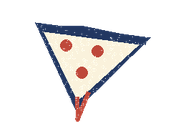
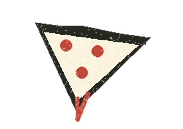
Made a Theme for my Exercise 2
Gave my Exercise 2 an Improvement with purpose and a fun way to see it

Changed region(s): [[0.1913, 0.155, 0.8197, 0.8372], [0.4372, 0.7442, 0.4645, 0.8062]]

diff --git a/Exercise 2/02-joke_teller.py b/Exercise 2/02-joke_teller.py
@@ -10,7 +10,7 @@ except ImportError:
     winsound = None
 
 HERE = Path(__file__).resolve().parent
-INK, RED, PAPER, DESK = "#223761", "#a83d32", "#faf2dc", "#dedbcf"
+INK, RED, PAPER, DESK = "#262820", "#973827", "#fbf2dd", "#e6e0d1"
 ZINE = Path.home() / ".second-impression" / "zine.json"
 
 
@@ -26,7 +26,7 @@ def read_jokes(path):
 class Press:
     def __init__(self, root):
         self.root = root
-        root.title("Second Impression  ·  The joke press")
+        root.title("Ink Dog Press  ·  Second Impression")
         root.resizable(False, False)
         self.c = tk.Canvas(root, width=900, height=550, bg=DESK, highlightthickness=0)
         self.c.pack()
@@ -93,10 +93,12 @@ class Press:
         self.revealed=False
         self.view(None)
         self.sound("feed")
-        self.c.addtag_enclosed("sheet", 289, 65, 881, 535)
-        self.c.move("sheet", 0, -12)
+        self.c.addtag_enclosed("sheet", 324, 65, 879, 513)
+        self.c.move("sheet", 12, 0)
+        self.c.move("dog", 8, 0)
         def feed(steps):
-            self.c.move("sheet", 0, 3)
+            self.c.move("sheet", -3, 0)
+            self.c.move("dog", -2, 0)
             self.timer = self.root.after(16, feed, steps-1) if steps>1 else None
         feed(4)
 
@@ -107,11 +109,11 @@ class Press:
         self.sound("impress")
         self.draw()
         # The moving mask exposes the second ink layer from top to bottom.
-        mask=self.c.create_rectangle(340,309,842,444,fill=PAPER,outline="")
+        mask=self.c.create_rectangle(329,309,864,444,fill=PAPER,outline="")
         roller=self.c.create_line(332,309,834,309,fill=RED,width=3)
         def roll(y):
             self.c.coords(roller,332,y,834,y)
-            self.c.coords(mask,340,y,842,444)
+            self.c.coords(mask,329,y,864,444)
             if y<444:
                 self.timer=self.root.after(16,roll,y+9)
             else:
@@ -157,19 +159,17 @@ class Press:
         self.c.delete("all")
         for w in self.c.winfo_children(): w.destroy()
         rect=self.c.create_rectangle
-        self.image(20,8,"mark")
-        self.text(72,21,"SECOND IMPRESSION",15,INK,"Bahnschrift")
+        self.image(0,0,"workbench")
+        self.text(310,17,"Second Impression",25,INK,"Georgia")
         self.button(626,12,105,32,f"My zine ({len(self.saved)})",lambda:self.view(0))
         self.button(739,12,83,32,"Sound off" if self.mute else "Sound on",self.toggle)
         self.button(830,12,50,32,"Quit",self.root.destroy)
-        self.c.create_line(21,57,879,57,fill=INK,width=2)
+        self.c.create_line(310,54,876,54,fill=INK,width=1)
         browsing=self.page is not None
         joke=(self.saved[self.page] if self.saved else None) if browsing else self.current
         printed=browsing or self.revealed
-        self.text(24,91,"THE POCKET ZINE" if browsing else "THE JOKE PRESS",14,RED,"Bahnschrift")
-        self.text(21,118,"Clipped\nprints." if browsing else "Second\nImpression.",43)
-        self.text(25,241,"A pocket edition of the jokes you kept." if browsing else
-                  "One joke, two inks.\nYou decide when the second colour lands.",18,width=238)
+        self.c.create_image(2,151,image=self.art["dog"+str(int(printed))],anchor="nw",tags="dog")
+        self.text(21,307,"Your clippings" if browsing else "Fetch a joke.",22,INK,"Georgia")
         if browsing:
             self.button(24,340,241,46,"←  Back to press",lambda:self.view(None))
             for i in range(min(len(self.saved),24)):
@@ -184,29 +184,27 @@ class Press:
             reveal=self.button(24,395,241,46,"Show Punchline",self.reveal,RED)
             if not joke or printed: reveal.config(state="disabled",disabledforeground="#ddc6b2")
         self.text(25,489,self.notice or (f"{len(self.saved)} saved prints" if browsing else
-                  f"{len(self.jokes)} jokes in the press"),14,INK,"Segoe UI",width=248)
-        rect(301,81,874,524,fill="#acaa9f",outline="")
-        rect(295,75,868,518,fill=PAPER,outline="#c9bfa9")
+                  f"{len(self.jokes)} jokes in the drawer"),15,INK,"Consolas",width=248)
         number=(self.page+1 if self.saved else 0) if browsing else self.turn
-        self.text(325,99,f'{"ZINE PAGE" if browsing else "PRESS SHEET"}   /   {number:03}',14,INK,"Bahnschrift")
+        self.text(342,91,f'{"ZINE PAGE" if browsing else "PRESS SHEET"}   /   {number:03}',14,INK,"Consolas")
         kind="press"
         if joke:
             for word,art in [('boil a clown','pot'),('pizza','pizza'),('bike','bike'),('mushroom','fungi')]:
                 if word in joke[0].lower(): kind=art; break
-        self.image(662,86,kind+str(int(printed)))
-        title=joke[0] if joke else ("Your first issue starts here." if browsing else "Ready to roll.")
-        self.text(322,198,title,28 if len(title)<65 else 24,width=510)
-        self.c.create_line(326,293,835,293,fill="#b9ad97",dash=(4,4))
+        self.image(669,63,kind+str(int(printed)))
+        title=joke[0] if joke else ("Your first issue starts here." if browsing else "The dog has the paper.")
+        self.text(339,186,title,34 if len(title)<50 else 26,width=514)
+        self.c.create_line(340,293,848,293,fill="#b9ad97",dash=(4,4))
         answer=joke[1] if joke and printed else ("Save a revealed joke to add a page." if browsing else
                "Press Show Punchline for the second ink." if joke else
                "Ask for a joke to load the first sheet." if self.jokes else "Check randomJokes.txt beside the program.")
-        self.text(324,324,answer,27 if joke and printed else 18,RED if printed else INK,width=505)
+        self.text(338,324,answer,30 if joke and printed else 18,RED if printed else INK,width=505)
         if joke and printed:
-            self.button(325,449,165,35,"Unclip favourite" if joke in self.saved else "Save favourite",
+            self.button(339,449,165,35,"Unclip favourite" if joke in self.saved else "Save favourite",
                         lambda:self.bookmark(joke))
-            self.button(499,449,110,35,"Copy joke",lambda:self.copy(joke))
-        self.c.create_line(325,495,836,495,fill=INK)
-        for i,col in enumerate((INK,RED)): rect(800+i*20,98,815+i*20,109,fill=col,outline="")
+            self.button(513,449,110,35,"Copy joke",lambda:self.copy(joke))
+        self.c.create_line(340,497,847,497,fill=INK)
+
 
 
 if __name__=="__main__":
